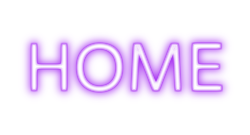
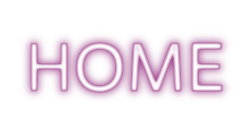
cambiamos titulos (imagenes) con nuevo color morado

Changed region(s): [[0.084, 0.2667, 0.896, 0.7111]]

diff --git a/lib/profile_pages/history.dart b/lib/profile_pages/history.dart
@@ -34,16 +34,23 @@ class _HistoryPageState extends State<HistoryPage> {
     
     return Scaffold(
       appBar: AppBar(
-        backgroundColor: const Color(0xFF1C1B1B),
+        backgroundColor: Color.fromRGBO(28, 27, 27, 1),
         title: Row(
-          mainAxisAlignment: MainAxisAlignment.center,
           children: [
-              const Text(
-              "Your Events History",
-            ),
+            Image.asset('images/binario1.png', 
+            width: 50.0,
+            height: 50.0,
+            fit: BoxFit.cover,
+            ),   
+            SizedBox(width: 16.0),
+            Container(
+  child: Image.asset('images/history.png',
+  height: 40,
+  
+  )
+),
           ],
         ),
-        centerTitle: true,
       ),
 
       backgroundColor: const Color(0xFF1C1B1B),

diff --git a/lib/profile_pages/edit_profile.dart b/lib/profile_pages/edit_profile.dart
@@ -19,11 +19,23 @@ class EditProfilePage extends StatelessWidget {
   Widget build(BuildContext context) {
     return Scaffold(
       appBar: AppBar(
-        backgroundColor: Color.fromRGBO(28,27,27,1),
-        title: const Text(
-          "Edit Profile",
+        backgroundColor: Color.fromRGBO(28, 27, 27, 1),
+        title: Row(
+          children: [
+            Image.asset('images/binario1.png', 
+            width: 50.0,
+            height: 50.0,
+            fit: BoxFit.cover,
+            ),   
+            SizedBox(width: 16.0),
+            Container(
+  child: Image.asset('images/edit_profile.png',
+  height: 40,
+  
+  )
+),
+          ],
         ),
-        centerTitle: true,
       ),
       backgroundColor: rgb(28, 27, 27),
       resizeToAvoidBottomInset: false,

diff --git a/lib/profile_pages/tutorial.dart b/lib/profile_pages/tutorial.dart
@@ -18,9 +18,23 @@ class _TutorialPageState extends State<TutorialPage> {
       backgroundColor: rgb(28, 27, 27),
 
       appBar: AppBar(
-        title: Text('Tutorial'),
-        centerTitle: true,
-        backgroundColor: rgb(28,27,27),
+        backgroundColor: Color.fromRGBO(28, 27, 27, 1),
+        title: Row(
+          children: [
+            Image.asset('images/binario1.png', 
+            width: 50.0,
+            height: 50.0,
+            fit: BoxFit.cover,
+            ),   
+            SizedBox(width: 16.0),
+            Container(
+  child: Image.asset('images/tutorial.png',
+  height: 40,
+  
+  )
+),
+          ],
+        ),
       ),
 
       body: Column(
